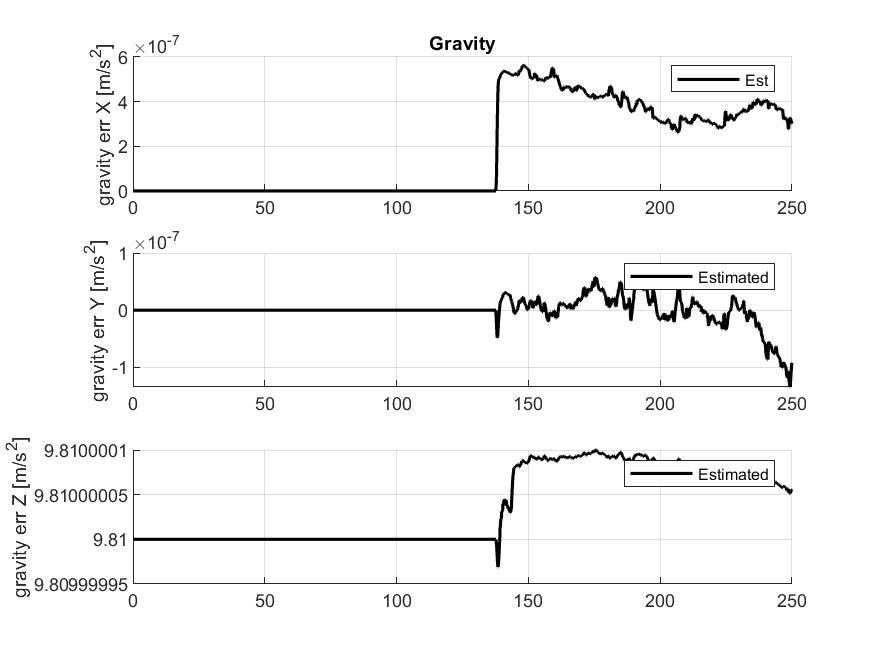
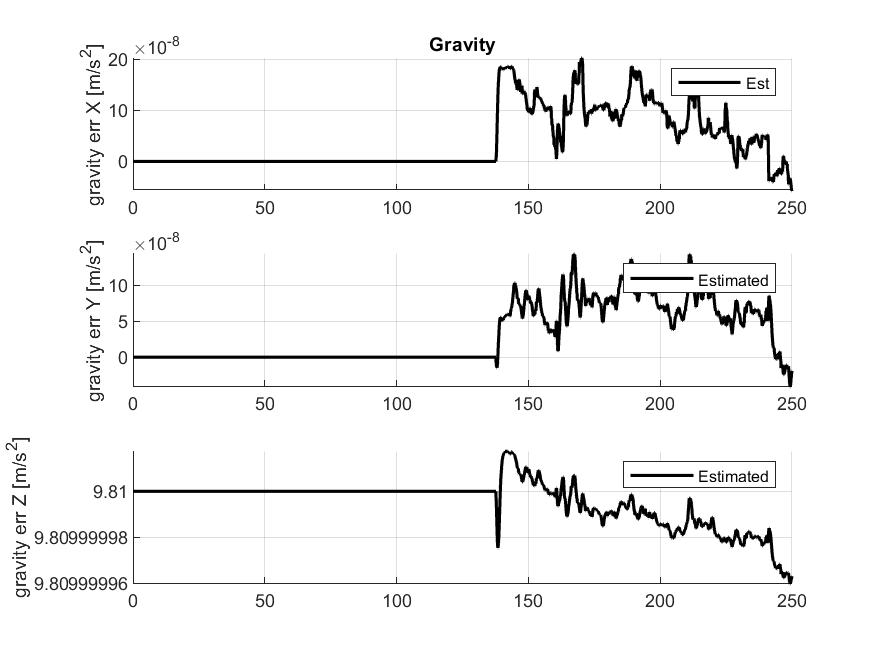
removed bias from acc aiding model, improved the results a lot

diff --git a/ESKF/ErrorStateKalman_sola.m b/ESKF/ErrorStateKalman_sola.m
@@ -128,7 +128,7 @@ function [delta_x, E] = ErrorStateKalman_sola(f_b_ins, race_started, r_b_1, r_b_
           
           H_vec = [Z3  Z3  Z3  -Smtrx(R_nb_hat*(r_b_2-r_b_1))  Z3  Z3];
           
-          H_acc = [Z3  Z3  I3  -Smtrx(R_nb_hat' * g_n_nb)  Z3  Z3];              
+          H_acc = [Z3  Z3  Z3  -Smtrx(R_nb_hat' * g_n_nb)  Z3  Z3];              
 %           H_acc = [Z3  Z3  Z3  Z3  Z3  Z3]; 
 
           H_gss_pos = [ 0, 0, 0];

diff --git a/ESKF/MESKF_sola.m b/ESKF/MESKF_sola.m
@@ -163,7 +163,7 @@ for k = 1:N
         
         % Stand-still acceleration
         y_acc = f_b_imu(:,k); %-(R_nb_t)' * g_n_nb + bacc_b_nb(:,k);
-        y_acc_hat = -(R_nb_ins)' * g_n_hat + bacc_b_ins;
+        y_acc_hat = -(R_nb_ins)' * g_n_hat; % + bacc_b_ins;
         
         
         
